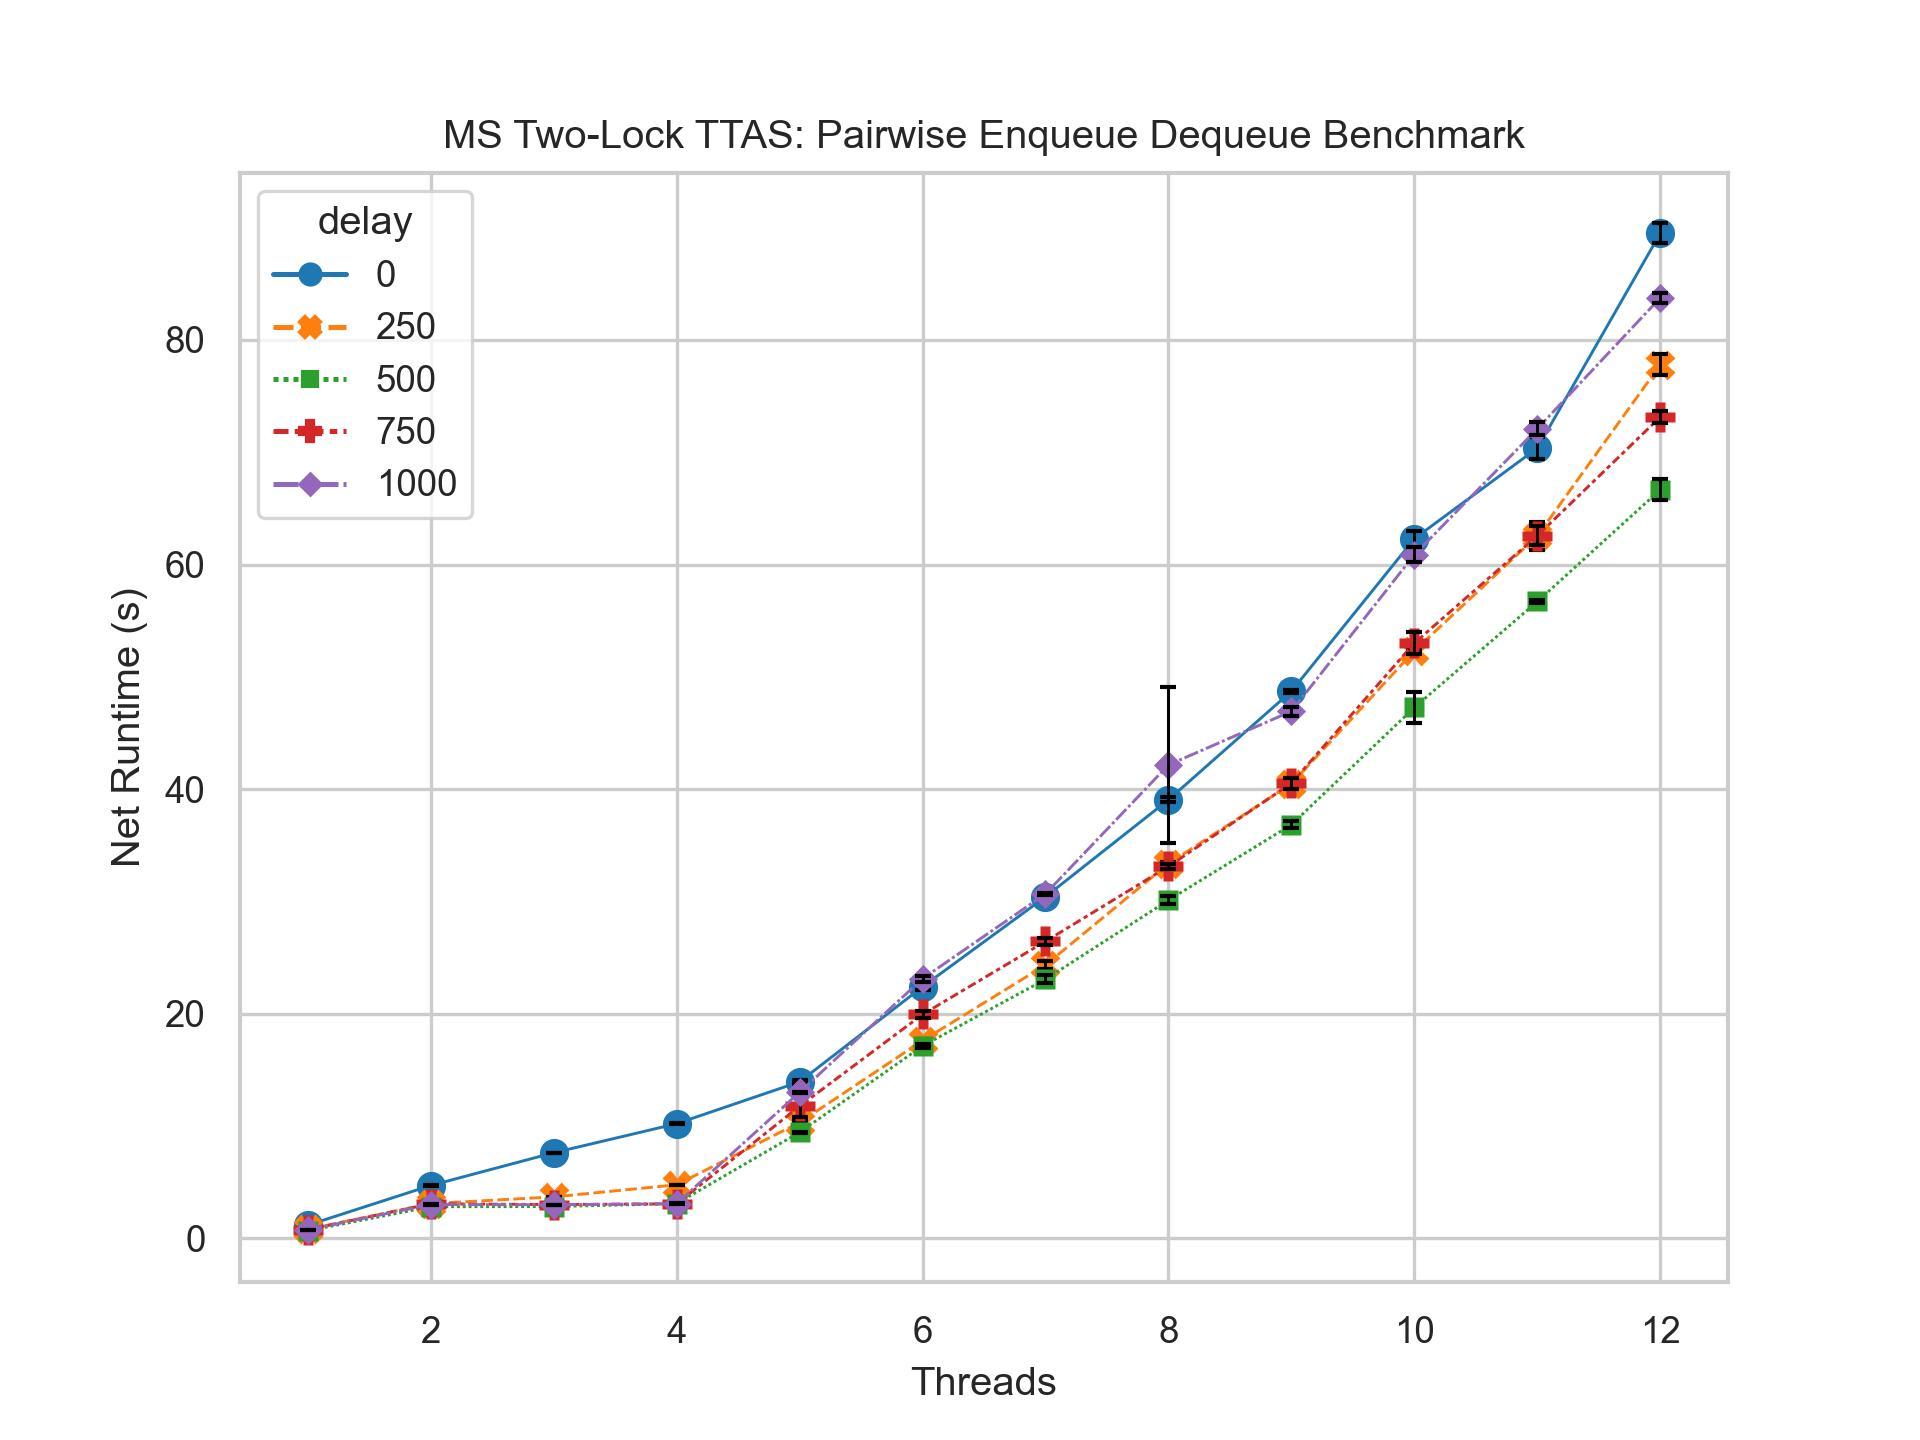
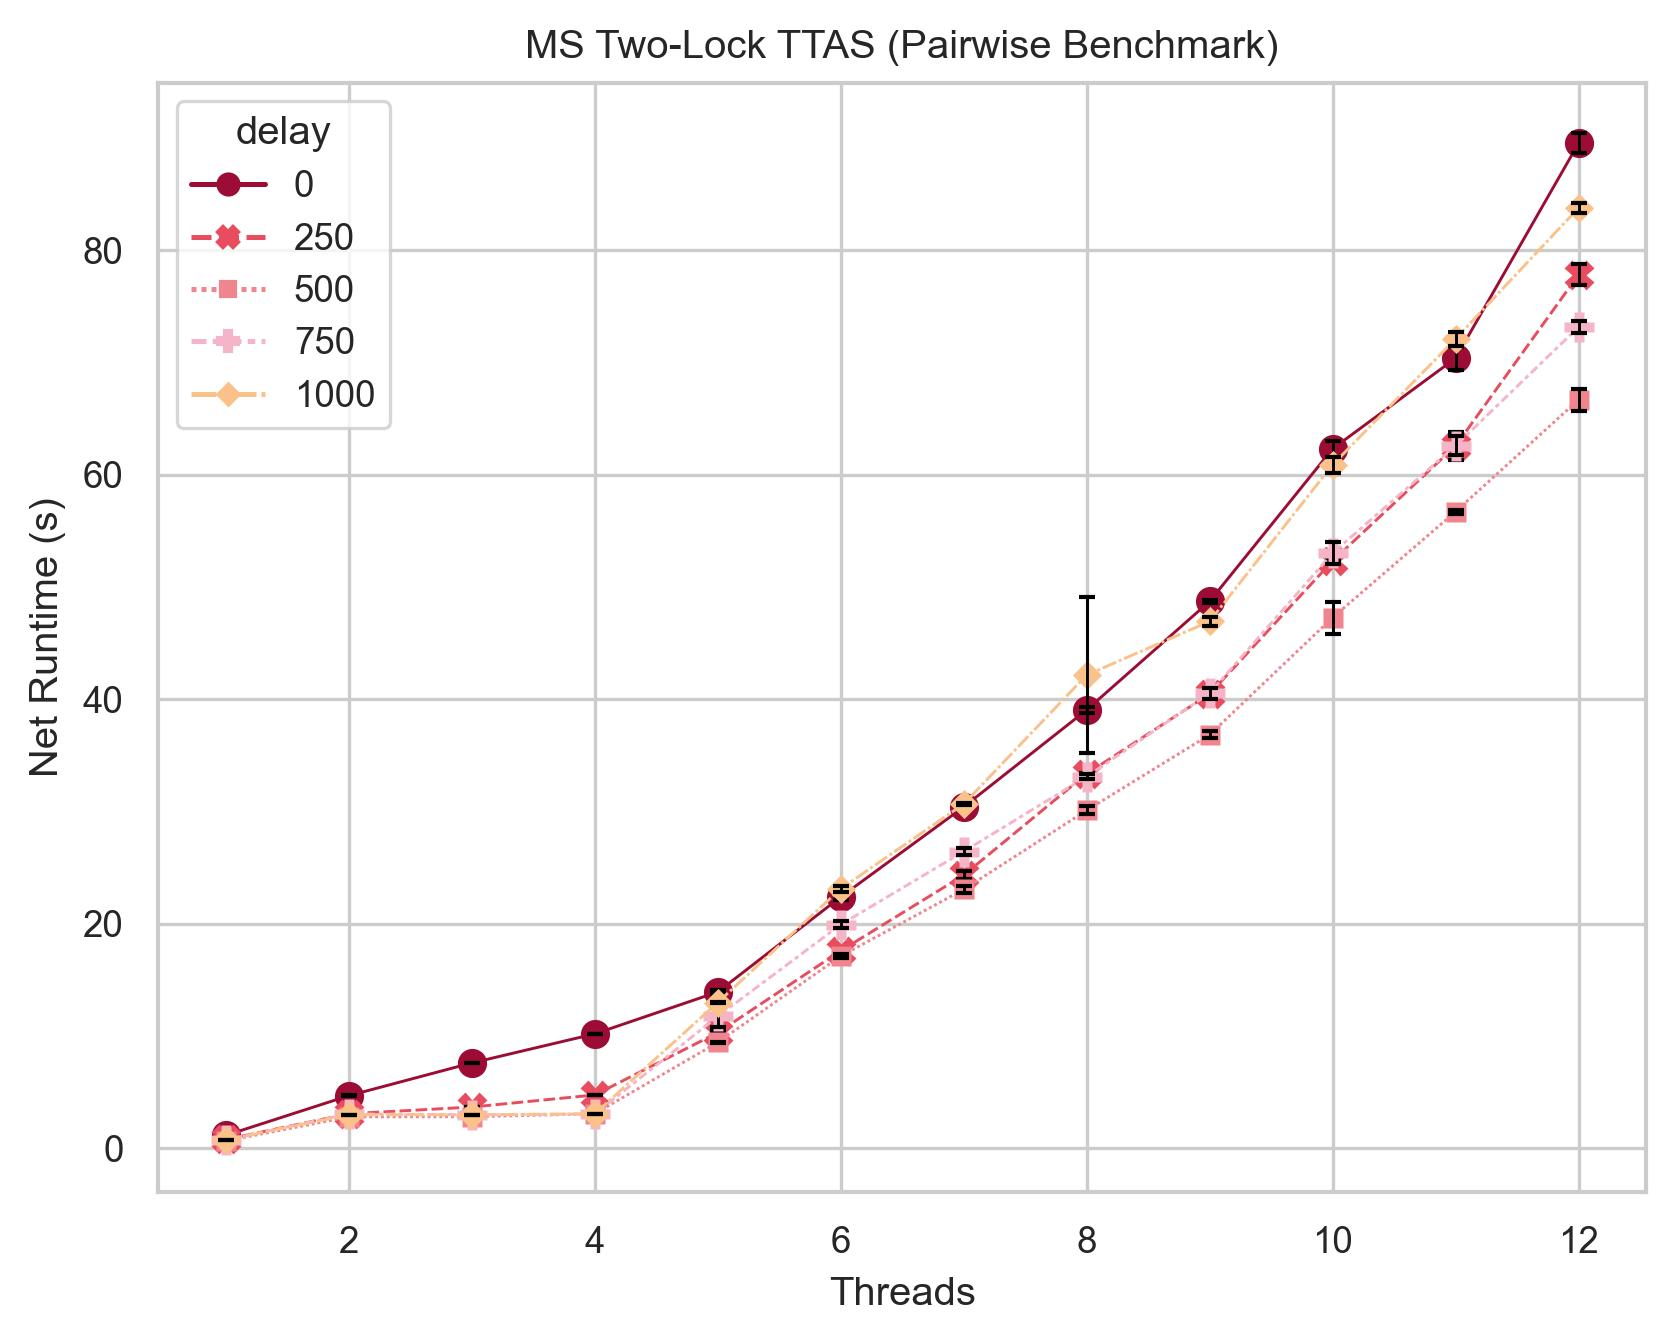
Update plot.py to output plots for posters and use UOM colour palette

diff --git a/src/utils/plot.py b/src/utils/plot.py
@@ -16,26 +16,43 @@ LINE_WIDTH = 0.7
 
 os.makedirs(IMAGES_PATH, exist_ok=True)
 
+PLOT_CONTEXT = "paper"
+# PLOT_CONTEXT = "poster"
+
+err_style = {
+    "err_style" : "band" if PLOT_CONTEXT == "poster" else "bars",
+}
+
+if PLOT_CONTEXT != "poster":
+    err_style["err_kws"] = {"linewidth": LINE_WIDTH, "capsize": 2, "ecolor": "k"}
+
 sns_kwargs = {
     "markers": True,
     "dashes": True,
     "ci": "sd",
     "markeredgecolor": "none",
-    "err_style": "bars",
     "linewidth": LINE_WIDTH,
     "markersize": MARKER_SIZE,
-    "err_kws": {"linewidth": LINE_WIDTH, "capsize": 2, "ecolor": "k"},
+    **err_style
 }
 
 labels_kwargs = {"xlabel": "Threads", "ylabel": "Net Runtime (s)"}
 
-sns.set_style("whitegrid")
-sns.set_context("paper")
+uom_color_palette = ["#9C0C35", "#E94C5E", "#F08590", "#F5B4C7", "#FAC18A"]
 
+grid_style = "white" if PLOT_CONTEXT == "poster" else "whitegrid"
+
+sns.set_style(grid_style)
+sns.set_context("paper")
+sns.set_palette(sns.color_palette(uom_color_palette))
+
+def set_legend_location(ax: plt.Axes):
+    if PLOT_CONTEXT == "poster":
+        sns.move_legend(ax, "best", fontsize="small")
 
 def save_plot(ax: plt.Axes, output_file_name: str, plot_title: str, dpi: int):
     ax.set(title=plot_title, **labels_kwargs)
-    ax.get_figure().savefig(output_file_name, dpi=dpi)
+    ax.get_figure().savefig(output_file_name, dpi=dpi, bbox_inches="tight")
     ax.get_figure().clf()
 
 
@@ -73,6 +90,13 @@ def plot_grouped_results(
         **sns_kwargs,
     )
 
+    plot_title = plot_title.replace("(", "").replace(")", "")
+    plot_title = f"{plot_title} ({delay}ns delay)"
+
+    ax.get_legend().set_title("Queue")
+
+    set_legend_location(ax)
+
     save_plot(ax, f"{IMAGES_PATH}/{output_file_name}.jpg", plot_title, dpi)
 
 
@@ -106,16 +130,18 @@ def plot_individual_results(
             **sns_kwargs,
         )
 
+        set_legend_location(ax)
+
         cleaned_queue_name = str.lower(queue_name).replace(" ", "_")
 
         file_path = f"{IMAGES_PATH}/{output_file_name}_{cleaned_queue_name}.jpg"
-        title = f"{queue_name}: {plot_title}"
+        title = f"{queue_name} {plot_title}"
         save_plot(ax, file_path, title, dpi)
 
 
-ENQUEUE_DEQUEUE_TITLE = "Pairwise Enqueue Dequeue Benchmark"
+ENQUEUE_DEQUEUE_TITLE = "(Pairwise Benchmark)"
 ENQEUUE_DEQUEUE_FILE_NAME = "enqueue_dequeue_results"
-P_ENQUEUE_DEQUEUE_TITLE = "50% Enqueue Benchmark"
+P_ENQUEUE_DEQUEUE_TITLE = "(50% Enqueue Benchmark)"
 P_ENQUEUE_DEQUEUE_FILE_NAME = "p_enqueue_dequeue_results"
 
 plot_grouped_results(
